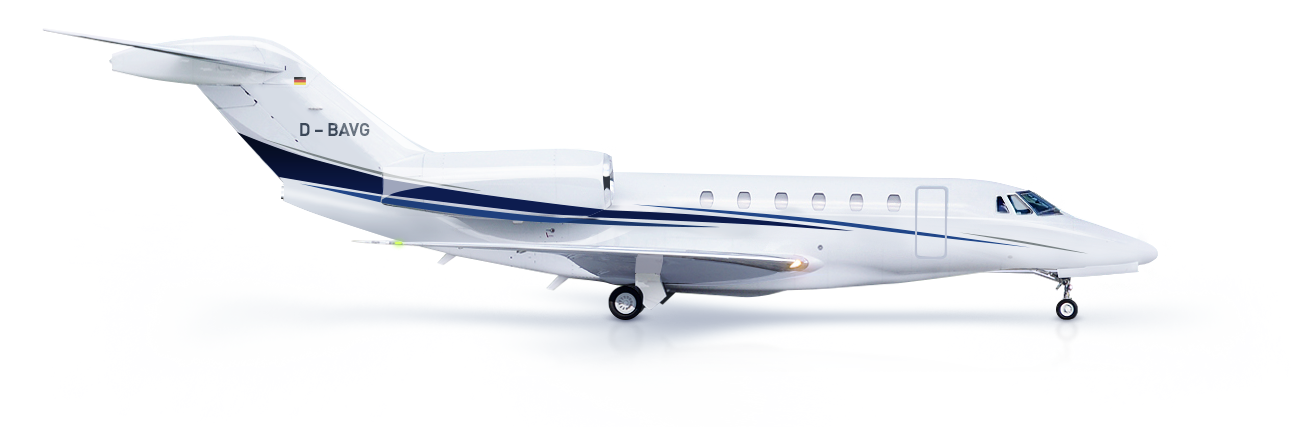
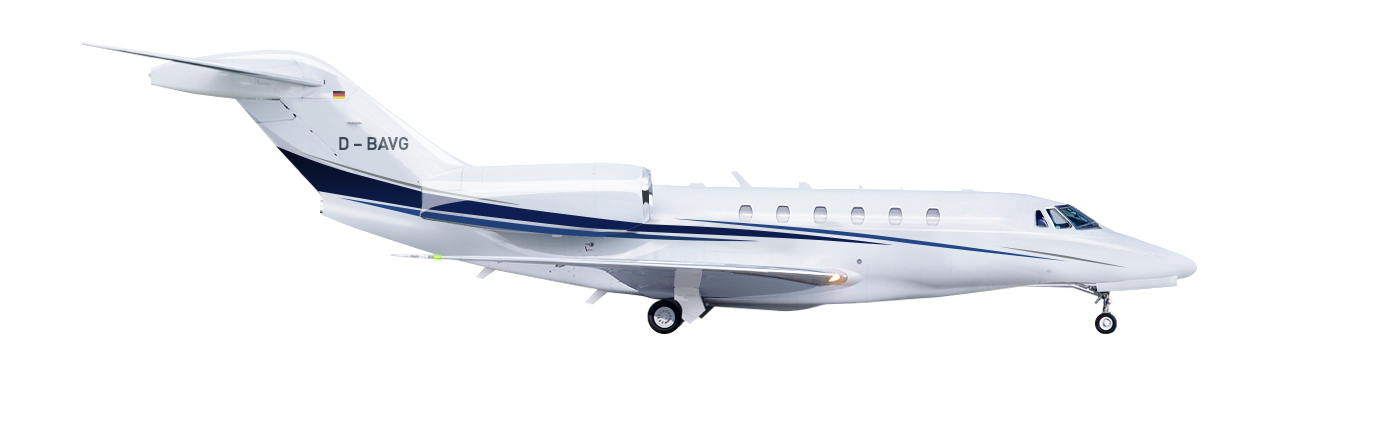
ad@aic.ru
Правки jquery local + картинки самолетов на тугле

Changed region(s): [[0.0616, 0.0913, 0.8937, 0.822], [0.2157, 0.1218, 0.2465, 0.1522], [0.0308, 0.0609, 0.0616, 0.0913]]

diff --git a/private_and_cahrter.html b/private_and_cahrter.html
@@ -16,23 +16,22 @@
 	<!-- <meta name="viewport" content="target-densitydpi=160dpi, maximum-scale=3.0, initial-scale=.75, user-scalable=yes">
 	<meta name="viewport" content="width=device-width"> -->
 
-<!-- 1 -->
-	<script src="js/libs/device.min.js"></script>
+	<!-- 2 -->
+		<link rel="stylesheet" href="css/style.css">
 
-<!-- 2 -->
-	<link rel="stylesheet" href="css/style.css">
+	<!-- 3 -->
+		<script src="http://yandex.st/jquery/1.11.1/jquery.min.js"></script>
+		<script type="text/javascript">
+		    document.write('\x3Cscript type="text/javascript" src="js/libs/jquery-1.11.1.min.js">\x3C/script>');
+		</script>
 
-<!-- 3 -->
-	<script src="http://yandex.st/jquery/1.11.1/jquery.min.js"></script>
-	<script>window.jQuery || document.write('<script src="js/libs/jquery-1.11.1.min.js">\x3C/script>')</script>
+	<!-- 4 -->
+	    <script src="js/libs/jquery.formstyler.min.js"></script>
+	    <script src="js/libs/slick.min.js"></script>
+	    <script src='https://maps.googleapis.com/maps/api/js?key=&sensor=false&extension=.js'></script> 
 
-<!-- 4 -->
-    <script src="js/libs/slick.min.js"></script>
-    <script src="js/libs/jquery.formstyler.min.js"></script>
-    <script src='https://maps.googleapis.com/maps/api/js?key=&sensor=false&extension=.js'></script> 
-
-<!-- 5 -->
-	<script src="js/script.js"></script>
+	<!-- 5 -->
+		<script src="js/script.js"></script>
 
 </head>
 <body class="private_and_cahrter">
@@ -92,7 +91,7 @@
 				<div class="slick-plain">
 					<div class="about_race-wrap visible" data-air="Citation X">
 						<div class="collage_pic">
-							<img src="pic/pic_20.png" alt="">
+							<img src="pic/pic_20.jpg" alt="">
 						</div>
 						<div class="about_raice cols"> 
 							<div>
@@ -119,7 +118,7 @@
 					</div>
 					<div class="about_race-wrap" data-air="Legacy 600">
 						<div class="collage_pic">
-							<img src="pic/pic_24.png" alt="">
+							<img src="pic/pic_24.jpg" alt="">
 						</div>
 						<div class="about_raice cols"> 
 							<div>

diff --git a/engineering_technical_services.html b/engineering_technical_services.html
@@ -16,22 +16,22 @@
 	<!-- <meta name="viewport" content="target-densitydpi=160dpi, maximum-scale=3.0, initial-scale=.75, user-scalable=yes">
 	<meta name="viewport" content="width=device-width"> -->
 
-<!-- 1 -->
-	<script src="js/libs/modernizr.js"></script>
+	<!-- 2 -->
+		<link rel="stylesheet" href="css/style.css">
 
-<!-- 2 -->
-	<link rel="stylesheet" href="css/style.css">
+	<!-- 3 -->
+		<script src="http://yandex.st/jquery/1.11.1/jquery.min.js"></script>
+		<script type="text/javascript">
+		    document.write('\x3Cscript type="text/javascript" src="js/libs/jquery-1.11.1.min.js">\x3C/script>');
+		</script>
 
-<!-- 3 -->
-	<script src="http://yandex.st/jquery/1.11.1/jquery.min.js"></script>
-	<script>window.jQuery || document.write('<script src="js/libs/jquery-1.11.1.min.js">\x3C/script>')</script>
+	<!-- 4 -->
+	    <script src="js/libs/jquery.formstyler.min.js"></script>
+	    <script src="js/libs/slick.min.js"></script>
+	    <script src='https://maps.googleapis.com/maps/api/js?key=&sensor=false&extension=.js'></script> 
 
-<!-- 4 -->
-    <script src="js/libs/jquery.formstyler.min.js"></script>
-    <script src='https://maps.googleapis.com/maps/api/js?key=&sensor=false&extension=.js'></script> 
-
-<!-- 5 -->
-	<script src="js/script.js"></script>
+	<!-- 5 -->
+		<script src="js/script.js"></script>
 
 </head>
 <body class="avangard_engineering_technical_services">

diff --git a/about.html b/about.html
@@ -17,22 +17,22 @@
 	<!-- <meta name="viewport" content="target-densitydpi=160dpi, maximum-scale=3.0, initial-scale=.75, user-scalable=yes">
 	<meta name="viewport" content="width=device-width"> -->
 
-<!-- 1 -->
-	<script src="js/libs/device.min.js"></script>
+	<!-- 2 -->
+		<link rel="stylesheet" href="css/style.css">
 
-<!-- 2 -->
-	<link rel="stylesheet" href="css/style.css">
+	<!-- 3 -->
+		<script src="http://yandex.st/jquery/1.11.1/jquery.min.js"></script>
+		<script type="text/javascript">
+		    document.write('\x3Cscript type="text/javascript" src="js/libs/jquery-1.11.1.min.js">\x3C/script>');
+		</script>
 
-<!-- 3 -->
-	<script src="http://yandex.st/jquery/1.11.1/jquery.min.js"></script>
-	<script>window.jQuery || document.write('<script src="js/libs/jquery-1.11.1.min.js">\x3C/script>')</script>
+	<!-- 4 -->
+	    <script src="js/libs/jquery.formstyler.min.js"></script>
+	    <script src="js/libs/slick.min.js"></script>
+	    <script src='https://maps.googleapis.com/maps/api/js?key=&sensor=false&extension=.js'></script> 
 
-<!-- 4 -->
-    <script src="js/libs/jquery.formstyler.min.js"></script>
-    <script src='https://maps.googleapis.com/maps/api/js?key=&sensor=false&extension=.js'></script> 
-
-<!-- 5 -->
-	<script src="js/script.js"></script>
+	<!-- 5 -->
+		<script src="js/script.js"></script>
 
 </head>
 <body class="avangard_about">

diff --git a/index.html b/index.html
@@ -16,22 +16,22 @@
 	<!-- <meta name="viewport" content="target-densitydpi=160dpi, maximum-scale=3.0, initial-scale=.75, user-scalable=yes">
 	<meta name="viewport" content="width=device-width"> -->
 
-<!-- 1 -->
-	<script src="js/libs/device.min.js"></script>
+	<!-- 2 -->
+		<link rel="stylesheet" href="css/style.css">
 
-<!-- 2 -->
-	<link rel="stylesheet" href="css/style.css">
+	<!-- 3 -->
+		<script src="http://yandex.st/jquery/1.11.1/jquery.min.js"></script>
+		<script type="text/javascript">
+		    document.write('\x3Cscript type="text/javascript" src="js/libs/jquery-1.11.1.min.js">\x3C/script>');
+		</script>
 
-<!-- 3 -->
-	<script src="http://yandex.st/jquery/1.11.1/jquery.min.js"></script>
-	<script>window.jQuery || document.write('<script src="js/libs/jquery-1.11.1.min.js">\x3C/script>')</script>
+	<!-- 4 -->
+	    <script src="js/libs/jquery.formstyler.min.js"></script>
+	    <script src="js/libs/slick.min.js"></script>
+	    <script src='https://maps.googleapis.com/maps/api/js?key=&sensor=false&extension=.js'></script> 
 
-<!-- 4 -->
-    <script src="js/libs/jquery.formstyler.min.js"></script>
-    <script src='https://maps.googleapis.com/maps/api/js?key=&sensor=false&extension=.js'></script> 
-
-<!-- 5 -->
-	<script src="js/script.js"></script>
+	<!-- 5 -->
+		<script src="js/script.js"></script>
 
 </head>
 <body class="avangard_index">

diff --git a/managed.html b/managed.html
@@ -16,18 +16,18 @@
 	<!-- <meta name="viewport" content="target-densitydpi=160dpi, maximum-scale=3.0, initial-scale=.75, user-scalable=yes">-->
 	<meta name="viewport" content="width=device-width">
 
-<!-- 1 -->
-	<script src="js/libs/modernizr.js"></script>
-
 <!-- 2 -->
 	<link rel="stylesheet" href="css/style.css">
 
 <!-- 3 -->
 	<script src="http://yandex.st/jquery/1.11.1/jquery.min.js"></script>
-	<script>window.jQuery || document.write('<script src="js/libs/jquery-1.11.1.min.js">\x3C/script>')</script>
+	<script type="text/javascript">
+	    document.write('\x3Cscript type="text/javascript" src="js/libs/jquery-1.11.1.min.js">\x3C/script>');
+	</script>
 
 <!-- 4 -->
     <script src="js/libs/jquery.formstyler.min.js"></script>
+    <script src="js/libs/slick.min.js"></script>
     <script src='https://maps.googleapis.com/maps/api/js?key=&sensor=false&extension=.js'></script> 
 
 <!-- 5 -->

diff --git a/css/style.css b/css/style.css
@@ -1368,11 +1368,11 @@ html.tablet #animate_index_4{
 
 
 #animate_index_5{
-	opacity: 0.5;
+	opacity: 0.7;
 	-webkit-transform: translateX(0px) translateY(0px);
 	transform: translateX(0px) translateY(0px);
-	-webkit-transition: -webkit-transform 1s ease-in 0.5s, opacity 0.5s ease-in-out;
-	transition: transform 1s ease-in 0.5s, opacity 0.5s ease-in-out;
+	-webkit-transition: -webkit-transform 1s ease-in, opacity 1s ease-in-out 0.5s;
+	transition: transform 1s ease-in, opacity 1s ease-in-out 0.5s;
 }
 #animate_index_5.active{
 	opacity: 1;

diff --git a/js/script.js b/js/script.js
@@ -172,7 +172,6 @@ $(function() {
 		}
 		
 		btn.on('click', function(){
-			console.log(111)
 			$('body').animate({
 				scrollTop: $('.js-animate_to').offset().top
 			}, 800)
@@ -483,8 +482,6 @@ $(function() {
 					var selFromText = $('li.selected', GoFrom).text();
 					var selToText = $('li.selected', GoTo).text();
 					var myHtml = $('#air_map-data').find('.' + selFromText.toLowerCase() + '.' + selToText.toLowerCase()).html();
-
-					console.log(myHtml)
 
 
 					$('.map_city_icon').removeClass('current');
